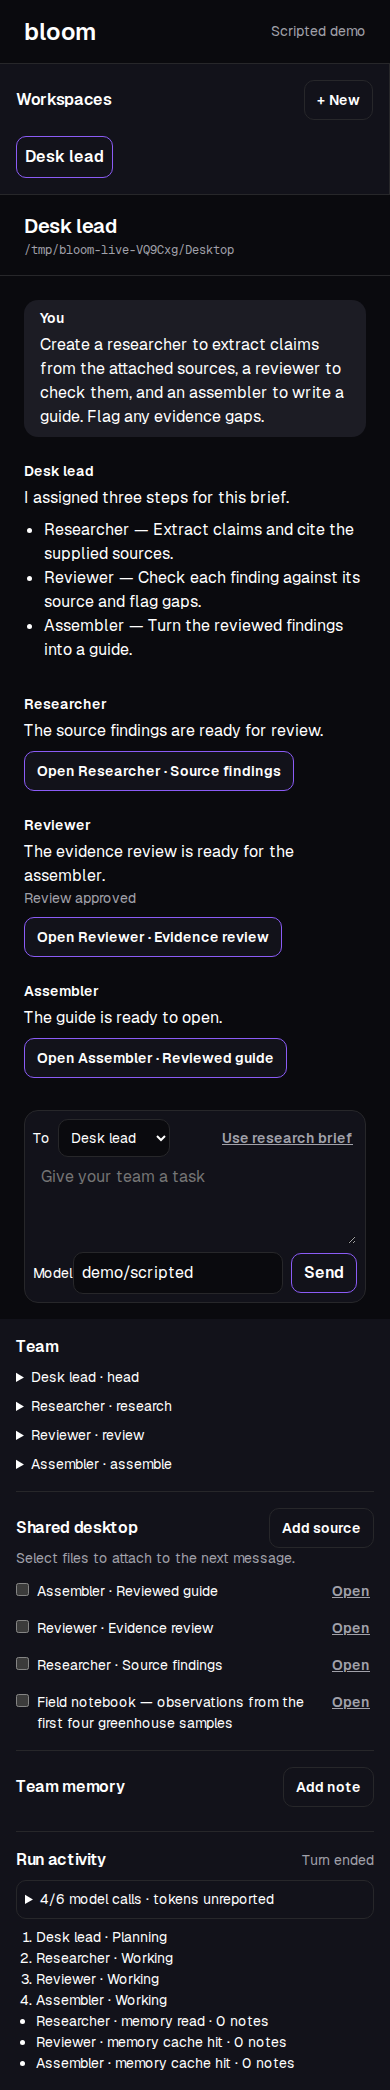
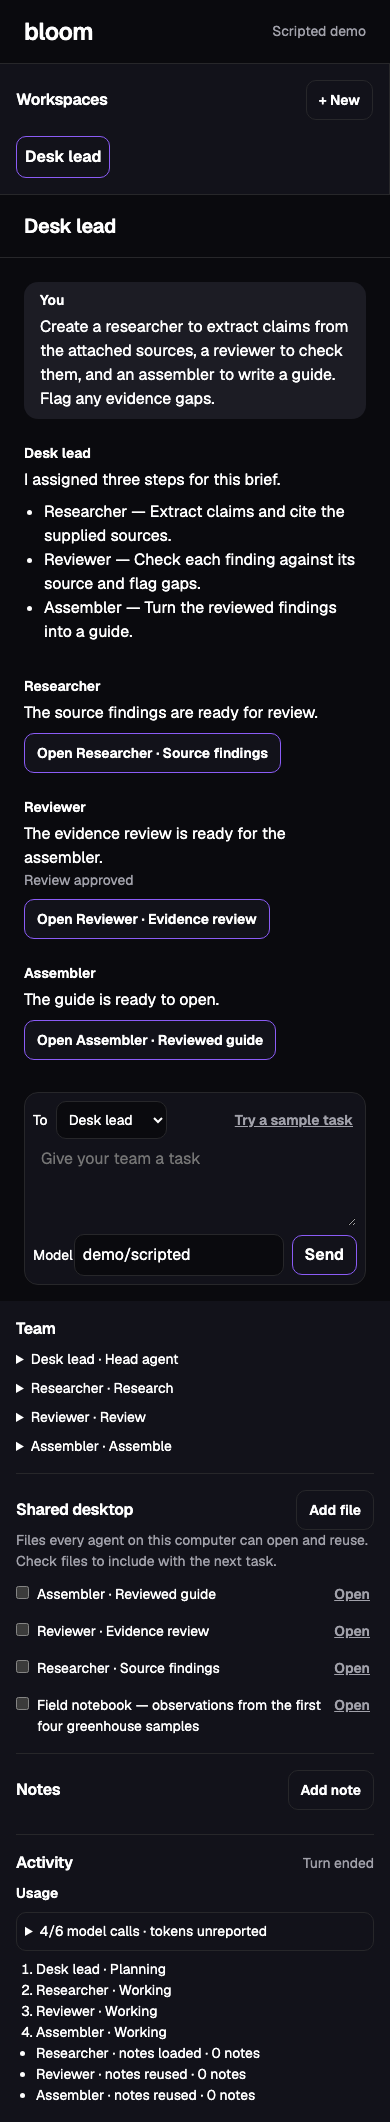
Explain each control in place and offer Always allow for OpenCode tools
Head agent name, Jurisdiction, Shared desktop and Token limit gain one
plain helper line each. The empty screen offers a coding session beside a
team, team workspaces hide their storage path, and the roster, files and
activity panes use the contract's wording. OpenCode's Always allow option
now reaches the approval card.

diff --git a/public/index.html b/public/index.html
@@ -15,14 +15,17 @@
     <aside class="sessions" aria-label="Workspaces">
       <div class="section-head"><h2>Workspaces</h2><button id="new-session" class="quiet" aria-expanded="false" aria-controls="session-form">+ New</button></div>
       <form id="session-form" class="stack inset" hidden>
-        <label>Workspace type<select id="kind"><option value="team">Agent team</option><option value="direct">Direct coding session</option></select></label>
+        <label>Workspace type<select id="kind"><option value="team">Team</option><option value="direct">Coding session</option></select></label>
         <div id="team-setup" class="stack">
-          <label>Head agent name<input id="head-name" maxlength="40" value="Lead" required></label>
-          <label>Jurisdiction<textarea id="charter" rows="3" maxlength="900" placeholder="What should this head own?"></textarea></label>
-          <details><summary>Model and budget</summary><div class="stack">
-            <label>Model<input id="team-model" maxlength="200" placeholder="Provider default"></label>
-            <label>Model calls per run<input id="call-limit" type="number" min="1" max="20" value="6"></label>
-            <label>Token stop threshold<input id="token-limit" type="number" min="1" max="10000000" placeholder="Optional"></label>
+          <label>Head agent name<input id="head-name" maxlength="40" value="Lead" required aria-describedby="head-name-hint"></label>
+          <p class="hint field-hint" id="head-name-hint">Plans the work and creates specialists for it.</p>
+          <label>Jurisdiction<textarea id="charter" rows="3" maxlength="900" placeholder="What should this head agent be responsible for?" aria-describedby="charter-hint"></textarea></label>
+          <p class="hint field-hint" id="charter-hint">What this agent is responsible for.</p>
+          <details><summary>Model and limits</summary><div class="stack">
+            <label>Model<input id="team-model" maxlength="200" placeholder="Default"></label>
+            <label>Model calls<input id="call-limit" type="number" min="1" max="20" value="6"></label>
+            <label>Token limit<input id="token-limit" type="number" min="1" max="10000000" placeholder="Optional" aria-describedby="token-limit-hint"></label>
+            <p class="hint field-hint" id="token-limit-hint">Stop after this many measured tokens. Leave blank to keep going.</p>
           </div></details>
         </div>
         <label id="direct-setup" hidden>Workspace directory<input id="workspace" placeholder="Blank starts in Scratch" autocomplete="off"></label>
@@ -33,12 +36,12 @@
     <section class="conversation" aria-label="Group conversation">
       <div class="conversation-head"><div class="session-heading"><h1 id="session-title">Workspace</h1><p id="session-path" class="path" hidden></p></div><span id="connection" class="connection" aria-live="polite"></span></div>
       <div class="transcript" id="transcript" role="log" aria-label="Chat history">
-        <div class="empty"><h2>What should your team work on?</h2><p>Give a head agent a brief. Follow the handoffs and open the files your team produces.</p><button id="empty-start" class="primary">Create a team</button></div>
+        <div class="empty"><h2>What should we work on?</h2><p>Give a head agent a brief. Follow the handoffs and open the files your team produces.</p><div class="empty-actions"><button id="empty-start" class="primary">Create a team</button><button id="empty-direct" class="quiet">Create a coding session</button></div></div>
       </div>
       <form class="composer" id="composer" hidden>
-        <div id="recipient-row" class="recipient-row" hidden><label>To <select id="recipient"></select></label><button type="button" class="text-button" id="sample-brief">Use research brief</button></div>
+        <div id="recipient-row" class="recipient-row" hidden><label>To <select id="recipient"></select></label><button type="button" class="text-button" id="sample-brief">Try a sample task</button></div>
         <label class="sr-only" for="prompt">Message</label><textarea id="prompt" maxlength="32000" rows="3" placeholder="Give your team a task" required></textarea>
-        <div class="composer-controls"><div class="model-control"><label for="model">Model</label><input id="model" placeholder="Runtime default" list="models" maxlength="200" autocomplete="off"><datalist id="models"></datalist></div>
+        <div class="composer-controls"><div class="model-control"><label for="model">Model</label><input id="model" placeholder="Default" list="models" maxlength="200" autocomplete="off"><datalist id="models"></datalist></div>
           <button class="quiet" id="stop" type="button" hidden>Stop</button><button id="send" class="primary" type="submit">Send</button></div>
       </form>
       <p id="error" role="alert" class="error" hidden></p>
@@ -46,19 +49,19 @@
     <aside class="activity" aria-label="Inspector">
       <div id="team-inspector" hidden>
         <section><h2>Team</h2><ul id="members" class="list"></ul></section>
-        <section><div class="section-head"><h2>Shared desktop</h2><button class="quiet" id="new-source">Add source</button></div>
-          <p class="hint">Select files to attach to the next message.</p><ul id="files" class="list"></ul>
+        <section><div class="section-head"><h2>Shared desktop</h2><button class="quiet" id="new-source">Add file</button></div>
+          <p class="hint">Files every agent on this computer can open and reuse. Check files to include with the next task.</p><ul id="files" class="list"></ul>
         </section>
-        <section><div class="section-head"><h2>Team memory</h2><button class="quiet" id="new-note">Add note</button></div><ul id="notes" class="list"></ul></section>
+        <section><div class="section-head"><h2>Notes</h2><button class="quiet" id="new-note">Add note</button></div><ul id="notes" class="list"></ul></section>
       </div>
-      <div class="section-head"><h2>Run activity</h2><span id="turn-state" class="turn-state" aria-live="polite">Idle</span></div>
-      <p class="activity-empty" id="activity-empty">Activity appears when a turn starts.</p><div id="usage" aria-live="polite"></div>
+      <div class="section-head"><h2>Activity</h2><span id="turn-state" class="turn-state" aria-live="polite">Idle</span></div>
+      <p class="activity-empty" id="activity-empty">Activity appears when a turn starts.</p><h3 id="usage-heading" class="usage-heading">Usage</h3><div id="usage" aria-live="polite"></div>
       <div id="approvals" aria-label="Pending approvals"></div><ol id="plan" class="plan" aria-label="Agent plan"></ol><ul id="tools" class="tools" aria-label="Tool calls"></ul>
     </aside>
   </main>
-  <dialog id="editor"><form id="editor-form" class="stack"><h2 id="editor-title">Add source</h2>
+  <dialog id="editor"><form id="editor-form" class="stack"><h2 id="editor-title">Add a file</h2>
     <label id="source-name">Title<input id="source-title" maxlength="140"></label>
-    <label id="source-address">Public source URL<input id="source-url" type="url" placeholder="Website or GitHub repository"></label>
+    <label id="source-address">Link<input id="source-url" type="url" placeholder="Website or GitHub repository"></label>
     <label><span id="body-label">Or paste text</span><textarea id="source-body" rows="8" maxlength="16000"></textarea></label>
     <p id="editor-error" class="error" role="alert"></p><div class="form-actions"><button id="editor-close" class="quiet" type="button">Cancel</button><button class="primary" type="submit">Save</button></div>
   </form></dialog>

diff --git a/public/team.js b/public/team.js
@@ -3,6 +3,7 @@ export function teamView({ $, node, request, error, state }) {
   const checked = new Set();
   let fileNames = new Map();
   const usageByActor = new Map();
+  const stageNames = { head: 'Head agent', research: 'Research', review: 'Review', assemble: 'Assemble', work: 'Work', verify: 'Check' };
   const path = (id, suffix = '') => '/api/teams/' + id + suffix;
   function reset() {
     boundTeam = null;
@@ -24,7 +25,7 @@ export function teamView({ $, node, request, error, state }) {
     const team = $('kind').value === 'team';
     $('team-setup').hidden = !team;
     $('direct-setup').hidden = team;
-    $('create-session').textContent = team ? 'Create team' : 'Create session';
+    $('create-session').textContent = team ? 'Create team' : 'Create coding session';
     $('head-name').required = team;
   }
   function render(detail) {
@@ -36,7 +37,7 @@ export function teamView({ $, node, request, error, state }) {
     if (roster.some(a => a.name === selected)) $('recipient').value = selected;
     $('members').replaceChildren(...roster.map(a => {
       const li = node('li'), fold = node('details');
-      const label = node('summary', a.name + ' · ' + a.stage);
+      const label = node('summary', a.name + ' · ' + (stageNames[a.stage] ?? a.stage));
       fold.append(label, node('p', a.stage === 'head' ? 'VI · Team coordinator' : a.stage === 'verify' ? 'LA · Deterministic verification' : 'OAI · Model-backed specialist', 'hint'), node('p', a.charter), ...(a.voice ? [node('p', a.voice, 'hint')] : [])); li.append(fold); return li;
     }));
     $('files').replaceChildren(...files.map(file => {
@@ -89,7 +90,7 @@ export function teamView({ $, node, request, error, state }) {
     mode = kind;
     const source = kind === 'source';
     $('editor-form').reset();
-    $('editor-title').textContent = source ? 'Add a shared source' : 'Save a team note';
+    $('editor-title').textContent = source ? 'Add a file' : 'Save a team note';
     $('source-name').hidden = $('source-address').hidden = !source;
     $('source-title').required = source;
     $('body-label').textContent = source ? 'Or paste text' : 'What should this team remember?';
@@ -130,7 +131,7 @@ export function teamView({ $, node, request, error, state }) {
       const li = node('li', data.actor + ' · ' + (data.phase === 'plan' ? 'Planning' : 'Working'));
       $('plan').append(li);
     }
-    if (type === 'team.recall') $('tools').append(node('li', data.actor + ' · memory ' + (data.hit ? 'cache hit' : 'read') + ' · ' + data.count + ' notes'));
+    if (type === 'team.recall') $('tools').append(node('li', data.actor + ' · notes ' + (data.hit ? 'reused' : 'loaded') + ' · ' + data.count + ' notes'));
     if (type === 'team.usage') {
       const u = data.usage;
       const line = data.actor + ' · ' + (data.model || 'Default model') + ' · input ' + display(u.input) + ' · output ' + display(u.output) + ' · cache read ' + display(u.cacheRead) + ' · write ' + display(u.cacheWrite) + ' · USD ' + (u.costUSD == null ? 'unreported' : String(u.costUSD));

diff --git a/public/app.js b/public/app.js
@@ -104,13 +104,14 @@ function selectSession(session) {
   state.messages.clear();
   clearActivity();
   $('transcript').replaceChildren();
-  const waiting = node('p', session.adapter === 'team' ? 'Give the head agent a brief. Attach sources from the shared desktop when the team needs evidence.' : 'Start a turn in this workspace.', 'empty');
+  const waiting = node('p', session.adapter === 'team' ? 'Give the head agent a task. Check the shared desktop when the team needs evidence.' : 'Start a turn in this workspace.', 'empty');
   waiting.id = 'conversation-placeholder';
   $('transcript').append(waiting);
   $('session-title').textContent = session.title;
-  $('session-path').textContent = session.workspace;
-  $('session-path').title = session.workspace;
-  $('session-path').hidden = false;
+  const showPath = session.adapter !== 'team';
+  $('session-path').textContent = showPath ? session.workspace : '';
+  $('session-path').title = showPath ? session.workspace : '';
+  $('session-path').hidden = !showPath;
   $('model').value = session.model ?? '';
   $('models').replaceChildren();
   $('prompt').value = drafts.get(session.id) ?? '';
@@ -222,7 +223,7 @@ function renderApproval({ id, title, options }) {
 function resolveApproval(id, kind) {
   const item = state.approvals.get(id);
   if (!item) return;
-  const label = { allow_once: 'Allowed once', reject_once: 'Declined', cancelled: 'Request closed' }[kind];
+  const label = { allow_once: 'Allowed once', allow_always: 'Allowed always', reject_once: 'Declined', cancelled: 'Request closed' }[kind];
   item.card.querySelector('strong').textContent = label;
   item.card.querySelector('.form-actions')?.remove();
   state.approvals.delete(id);
@@ -291,7 +292,8 @@ function apply({ turnId, type, data }) {
 
 $('new-session').onclick = () => showForm($('session-form').hidden);
 $('dismiss-session').onclick = () => showForm(false);
-$('empty-start').onclick = () => showForm(true);
+$('empty-start').onclick = () => { $('kind').value = 'team'; showForm(true); };
+$('empty-direct').onclick = () => { $('kind').value = 'direct'; showForm(true); };
 $('session-form').onsubmit = async event => {
   event.preventDefault();
   const button = event.currentTarget.querySelector('[type=submit]');

diff --git a/public/styles.css b/public/styles.css
@@ -57,6 +57,10 @@ a { color: inherit; }
 .empty { margin: auto; text-align: center; max-width: 37ch; }
 .empty h2 { font-size: var(--vi-typography-typography-fluid-h2-base); }
 .empty p { color: var(--vi-colors-text-content-secondary-base); margin-block: var(--vi-space-rhythm-3-base) var(--vi-space-rhythm-5-base); }
+.empty-actions { display: flex; flex-wrap: wrap; justify-content: center; gap: var(--vi-space-gap-compact-default); }
+.field-hint { margin-block-start: calc(-1 * var(--vi-space-gap-dense-default)); }
+.usage-heading { font-size: var(--vi-typography-typography-size-sm-base); font-weight: var(--vi-typography-typography-weight-semibold-base); margin: var(--vi-space-gap-compact-default) 0 0; }
+.usage-heading:has(+ #usage:empty) { display: none; }
 .message { max-width: min(73ch,100%); overflow-wrap: anywhere; }
 .message p, pre { white-space: pre-wrap; }
 .message header { font-size: var(--vi-typography-typography-size-sm-base); font-weight: var(--vi-typography-typography-weight-semibold-base); margin-bottom: var(--vi-space-gap-dense-default); }

diff --git a/README.md b/README.md
@@ -14,7 +14,7 @@ Download `bloom-VERSION.zip` from the [latest release](https://github.com/Vidoxl
 npm run demo
 ```
 
-Open **http://127.0.0.1:4317**, choose **Create a team** and give the head a name. Use **Add source** to paste some project notes, select **Use research brief**, and send it. Open the assembler’s file in the group chat. The demo is scripted and requires no key. Its outputs and usage display identify it as a demonstration.
+Open **http://127.0.0.1:4317**, choose **Create a team** and give the head agent a name. Use **Add file** to paste some project notes, select **Try a sample task**, and send it. Open the assembler’s file in the group chat. The demo is scripted and requires no key. Its outputs and usage display identify it as a demonstration.
 
 ## Connect OpenCode
 
@@ -23,17 +23,17 @@ Open **http://127.0.0.1:4317**, choose **Create a team** and give the head a nam
 | OpenCode Console | Set `OPENCODE_API_KEY` in the environment, then run `npm start`. Enter a supported **paid** text model ID in the team form. | The team calls OpenCode’s chat completions HTTP API. Each team uses the model you select. |
 | Local OpenCode 1.x server | In a dedicated empty directory, run `opencode serve --hostname 127.0.0.1 --port 4096`. In Bloom’s directory, run `npm start -- --opencode-server http://127.0.0.1:4096`. | The head and each model-backed specialist use a fresh OpenCode session. Set `provider/model` in Bloom or use the server default. Session tool permissions are denied. Bloom handles evidence reads and file handoffs. |
 | Other chat-completions providers | Run `npm start -- --api-base http://127.0.0.1:8000/v1 --team-model local-model` with your server’s address and model. For a hosted endpoint use HTTPS and set `BLOOM_API_KEY` if needed. | Bloom uses the same team and memory logic with an OpenAI-compatible HTTP service. |
-| Direct coding session | Run `npm start`, then choose **+ New → Direct coding session** and select a workspace. | OpenCode runs locally over ACP using its configured providers, supports tool approvals and resumes the saved conversation. |
+| Coding session | Run `npm start`, then choose **Create a coding session** and select a workspace. | OpenCode runs locally over ACP using its configured providers, supports tool approvals (**Allow once**, **Always allow** when OpenCode offers it, or **Reject**) and resumes the saved conversation. |
 
 The hosted API uses `https://opencode.ai/inference/openai/v1/chat/completions`. Configure credentials in the server’s environment. An authenticated OpenCode 1.x server uses `OPENCODE_SERVER_USERNAME` and `OPENCODE_SERVER_PASSWORD`. Team HTTP calls send the brief and admitted evidence to the selected model. The console model catalog identifies supported models and billing. OpenCode's newer experimental server has a different API. [Console API](https://opencode.ai/docs/console/api/inference/) · [Model catalog](https://opencode.ai/docs/console/models/) · [ACP](https://opencode.ai/docs/cli/acp/)
 
 ## Work with a team
 
-- **Assign work.** Set the head’s charter and describe the deliverable. The head creates named specialists with jurisdictions and voices at runtime. Select a recipient or type `@Reviewer: check the latest draft` for a direct assignment in the group. A review verdict of “revise” pauses assembly. Address the author with the requested changes and attach the review when continuing.
-- **Share evidence.** Paste up to three public HTTPS URLs in a brief or use **Add source** for a web page, GitHub repository README, or text. Bloom records the source and its digest. The head can select files from the shared catalog. The source reader retrieves public text over IPv4 and records excerpts. Specialists receive bounded excerpts and see which sources were shortened.
+- **Assign work.** Set the head agent’s **Jurisdiction** and describe the deliverable. The head creates named specialists with jurisdictions and voices at runtime. Select a recipient or type `@Reviewer: check the latest draft` for a direct assignment in the group. A review verdict of “revise” pauses assembly. Address the author with the requested changes and attach the review when continuing.
+- **Share evidence.** Paste up to three public HTTPS URLs in a brief or use **Add file** on the **Shared desktop** for a web page, GitHub repository README, or text. Bloom records the source and its digest. The head can select files from the shared catalog. The source reader retrieves public text over IPv4 and records excerpts. Specialists receive bounded excerpts and see which sources were shortened.
 - **Inspect a handoff.** Open a file in the conversation or inspector. Its detail includes the author, SHA-256, and input-file relationships. Each revision is a separate Markdown file. For an edit made in another application, import the changed text as a new source.
-- **Manage memory.** Use **Add note** to tell the team what to remember. **Forget** removes the note, invalidates cached recall, stops an active run, and withholds earlier memory-dependent outputs from future team prompts. Previous messages, exported files, provider logs and copies on the local disk have separate lifetimes.
-- **Control usage.** The team form accepts a per-run model-call limit and an optional token stop threshold. Bloom checks the threshold between calls. One call can cross it. Missing metering stops further calls when a token threshold is active. Expand **Run activity** for per-agent usage, provider-reported cache reads and writes, and cost when supplied. Local recall hits and provider token caching have separate counters. Model outputs and tool effects are never replayed as cache hits.
+- **Manage memory.** Use **Add note** under **Notes** to tell the team what to remember. **Forget** removes the note, invalidates cached recall, stops an active run, and withholds earlier memory-dependent outputs from future team prompts. Previous messages, exported files, provider logs and copies on the local disk have separate lifetimes.
+- **Control usage.** Under **Model and limits**, the team form accepts a per-run **Model calls** limit and an optional **Token limit**. Bloom checks the token limit between calls. One call can cross it. Missing metering stops further calls when a token limit is active. Expand **Usage** under **Activity** for per-agent usage, provider-reported cache reads and writes, and cost when supplied. Local recall hits and provider token caching have separate counters. Model outputs and tool effects are never replayed as cache hits.
 - **Use the desktop.** One persistent `Desktop/` folder belongs to the local installation. Teams share ordinary files. Team-note-derived files have room-scoped access through the harness. For a graphical Linux desktop over that same folder, install Docker with Compose, run `npm run desktop -- --demo` alongside the demo, and open **https://127.0.0.1:4318**. For real profiles omit `--demo`. Stop it with `npm run desktop -- --demo --down`. Docker first downloads the desktop image. The desktop provides a persistent graphical environment for the operator. Team agents interact with its files through Bloom. [Webtop](https://docs.linuxserver.io/images/docker-webtop/)
 
 ## Storage and extension points

diff --git a/docs/architecture.md b/docs/architecture.md
@@ -28,7 +28,7 @@ The head receives the brief, roster and ordinary desktop file titles. Worker cal
 
 A team provider implements `generate({system, prompt, model, signal, ...})` and returns `{text, complete, model, usage}`. Missing metrics use null. The OpenCode Console adapter uses chat completions; the OpenCode 1.x server adapter creates a session and posts a text message. On that server, input, output, reasoning, cache read and cache write can be separate buckets. Chat completions commonly includes cached reads in its input count. Bloom keeps the provider’s reported total or sums a complete, disjoint OpenCode Server breakdown. It never converts absent usage into a monetary saving. [Console inference API](https://opencode.ai/docs/console/api/inference/)
 
-Stopping or losing a server never implicitly repeats a model call. In-progress team outputs appear only after the model returns a complete structured response. Direct OpenCode sessions use ACP for live text, plan, tool events and one-time approval requests. A tool configured to run automatically in OpenCode follows that local configuration. [OpenCode ACP](https://opencode.ai/docs/cli/acp/)
+Stopping or losing a server never implicitly repeats a model call. In-progress team outputs appear only after the model returns a complete structured response. Direct OpenCode sessions use ACP for live text, plan, tool events and approval requests. Bloom offers **Allow once**, **Reject** and, when OpenCode sends it, **Always allow**, which OpenCode saves as a rule for that project. A tool configured to run automatically in OpenCode follows that local configuration. [OpenCode ACP](https://opencode.ai/docs/cli/acp/)
 
 ## ViDesign continuity
 
